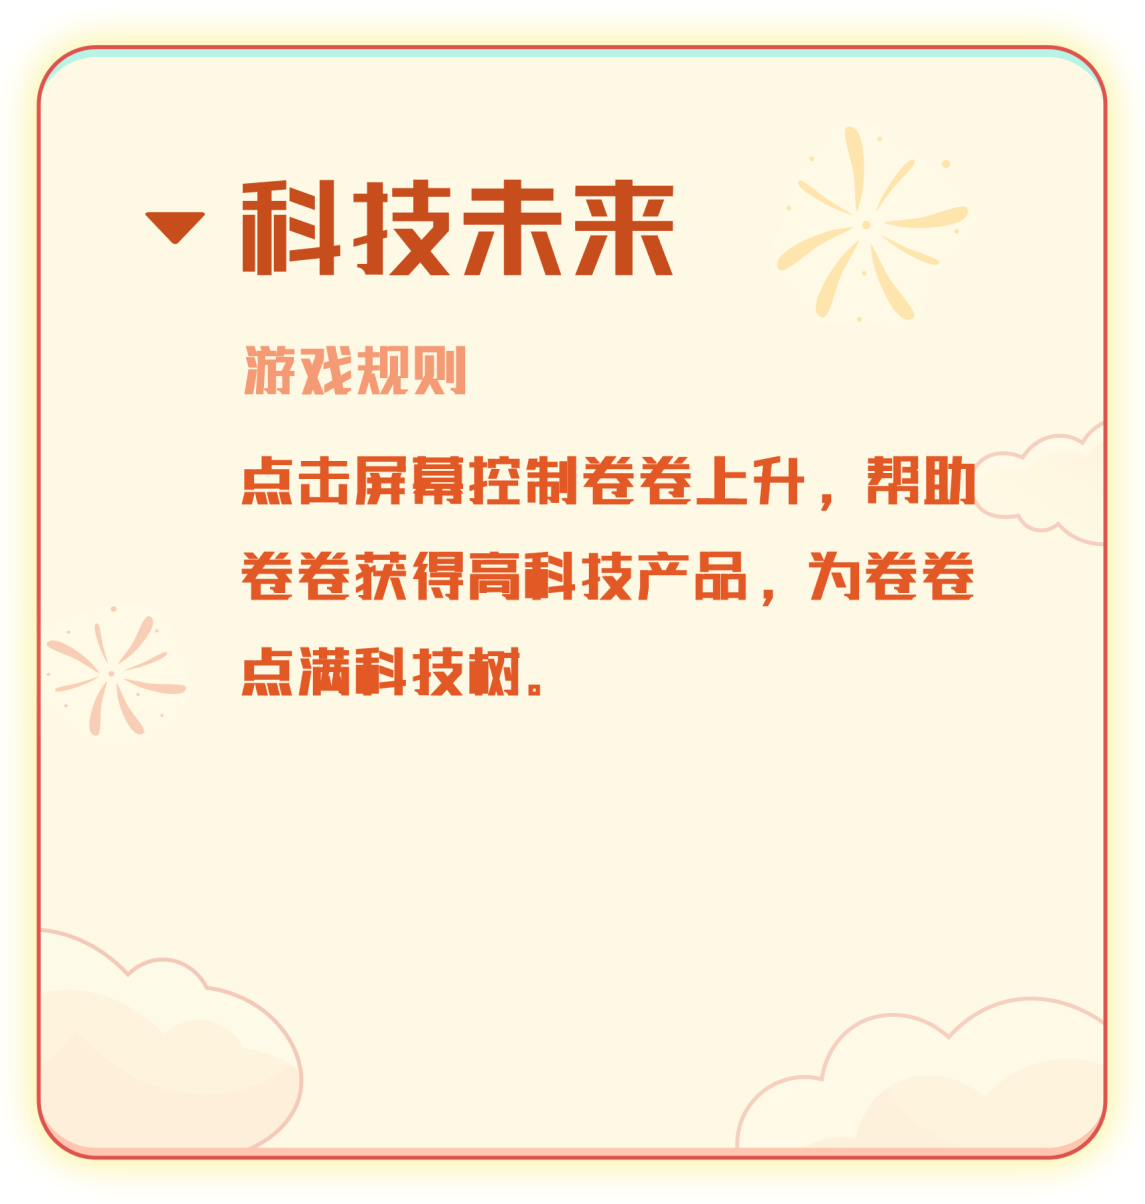
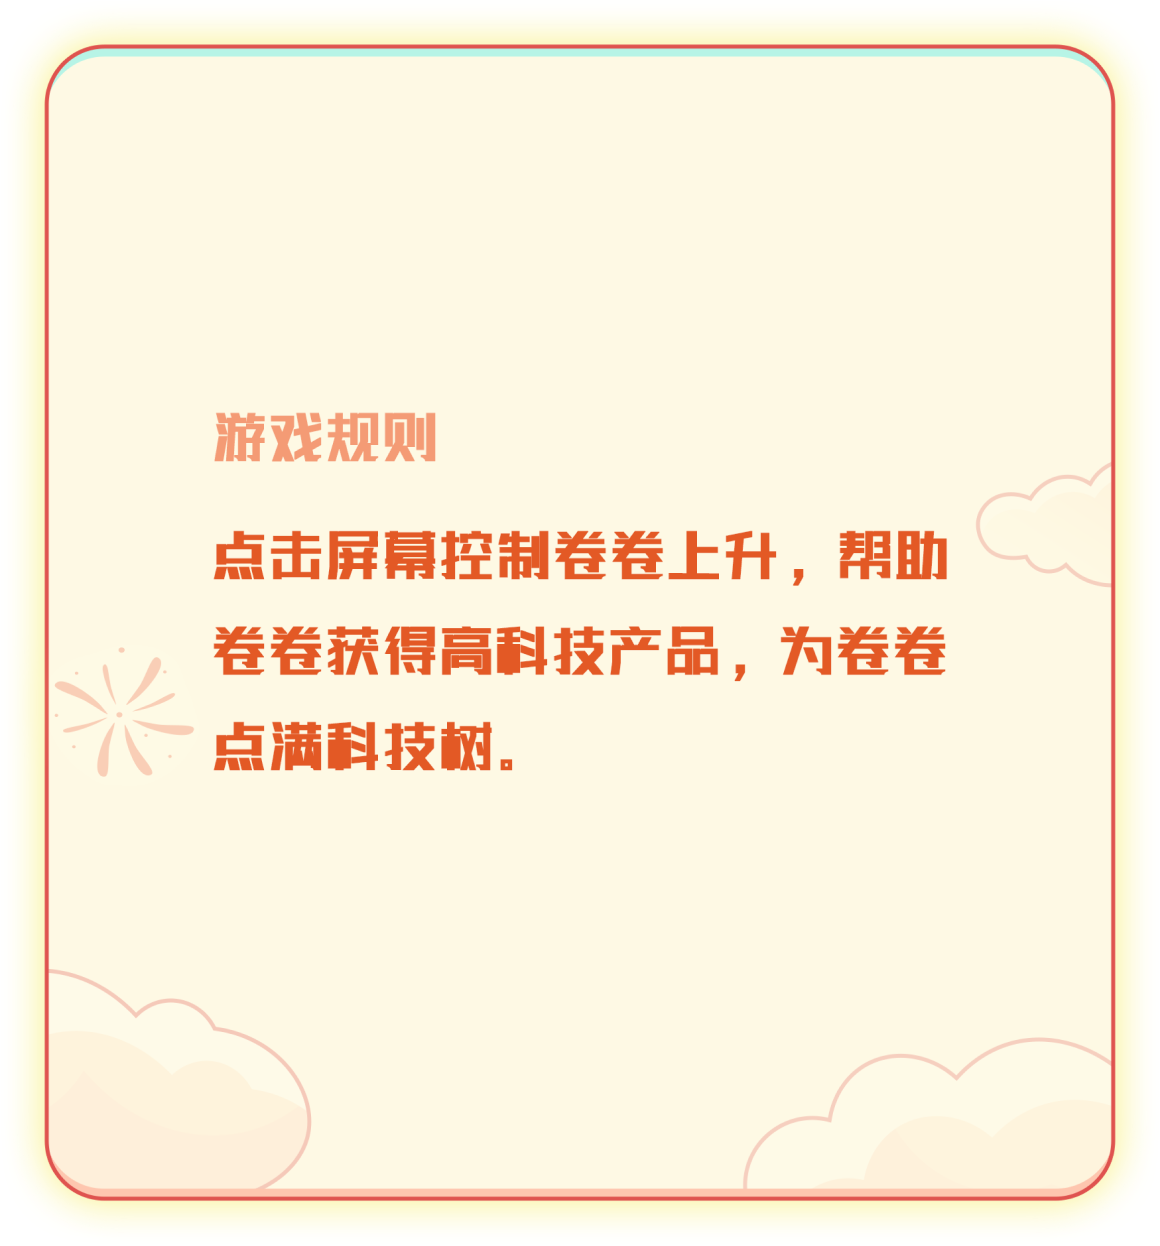
feat: complete selection page

diff --git a/src/assets/styles/selection.less b/src/assets/styles/selection.less
@@ -1,33 +1,100 @@
 .selection {
     background-image: url("../images/selection/background.png");
     background-size: 100% 100%;
-    min-height: 100vh;
+    height: 100vh;
     width: 100%;
+    overflow-y: auto;
+
     .sentakushis {
 
         padding-top: 32.8vw;
+        padding-bottom: 32.8vw;
+
         .sentakushi {
-            width: 77.184vw;
-            height: 24.8vw;
-            background-size: 100% 100%;
+            // height: 24.8vw;
+            // background-size: 100% 100%;
             margin: 0 auto;
+            overflow: hidden;
+
+            width: 77.333vw;
+            height: 22vw;
+            border-radius: 8vw;
+            background-size: 100% auto;
+            transition: all ease .2s;
+
+            .preview {
+                width: 77.333vw;
+            }
+
+            .start-game {
+                width: 44vw;
+                margin-left: 16.5vw;
+            }
+
+            &.harvest {
+                background-image: url("../images/selection/harvest-expand.png");
+                .start-game {
+                    margin-top: 44.867vw;
+                }
+            }
+
+            &.interstellarTrip {
+                background-image: url("../images/selection/interstellar-trip-expand.png");
+                .start-game {
+                    margin-top: 32.599vw;
+                }
+            }
+
+            &.antiEpidemic {
+                background-image: url("../images/selection/anti-epidemic-expand.png");
+                .start-game {
+                    margin-top: 32.866vw;
+                }
+            }
+
+            &.techFuture {
+                background-image: url("../images/selection/tech-future-expand.png");
+                .start-game {
+                    margin-top: 32.333vw;
+                }
+            }
+
+
+            &.expanded {
+
+                &.harvest {
+                    height: 95vw;
+                }
+
+                &.interstellarTrip {
+                    height: 82vw;
+                }
+
+                &.antiEpidemic {
+                    height: 82vw;
+                }
+
+                &.techFuture {
+                    height: 82vw;
+                }
+            }
         }
 
-        .harvest {
-            background-image: url("../images/selection/harvest.png");
-        }
+        // .harvest {
+        //     background-image: url("../images/selection/harvest.png");
+        // }
 
-        .interstellarTrip {
-            background-image: url("../images/selection/interstellar-trip.png");
-        }
+        // .interstellarTrip {
+        //     background-image: url("../images/selection/interstellar-trip.png");
+        // }
 
-        .antiEpidemic {
-            background-image: url("../images/selection/anti-epidemic.png");
-        }
+        // .antiEpidemic {
+        //     background-image: url("../images/selection/anti-epidemic.png");
+        // }
 
-        .techFuture {
-            background-image: url("../images/selection/tech-future.png");
-        }
+        // .techFuture {
+        //     background-image: url("../images/selection/tech-future.png");
+        // }
     }
-    
+
 }

diff --git a/src/views/games/TechFuture/index.tsx b/src/views/games/TechFuture/index.tsx
@@ -8,8 +8,8 @@ import { items } from "./items";
 import FailureWindow from "./views/FailureWindow";
 import SuccessWindow from "./views/SuccessWindow";
 
-const height = document.documentElement.clientHeight;
-const width = document.documentElement.clientWidth;
+const height = document.documentElement.clientHeight ;
+const width = document.documentElement.clientWidth ;
 
 const FPS = 60;
 const gravity = 600;
@@ -23,7 +23,7 @@ const player: Player = {
         y: 100,
     },
     velocity: {
-        x: 50,
+        x: 300,
         y: 0,
     },
     size: {
@@ -81,6 +81,8 @@ function graphicalUpdate(context: CanvasRenderingContext2D) {
         if (!item.visible) return;
         drawSprite(context, item);
     })
+
+    // console.log(player, items)
 }
 
 function physicalUpdate() {
@@ -133,11 +135,11 @@ function physicalUpdate() {
 function isColliding(reward: Reward): boolean {
     if (
         Math.abs(
-            (player.coordinate.x + player.collision.left + player.size.x / 2) -
+            (player.coordinate.x + player.collision.left + player.collision.width / 2) -
             (reward.coordinate.x + reward.size.x / 2)
         ) < (player.collision.width + reward.size.x) / 2 &&
         Math.abs(
-            (player.coordinate.y + player.collision.top + player.size.y / 2) -
+            (player.coordinate.y + player.collision.top + player.collision.height / 2) -
             (reward.coordinate.y + reward.size.y / 2)
         ) < (player.collision.height + reward.size.y) / 2
     ) {
@@ -154,7 +156,7 @@ function liftPlayer() {
 
 const TechFuture = (): ReactElement => {
     const canvasRef = useRef<HTMLCanvasElement>(null);
-    const [gameState, setGameState] = useState<"SUCCESS" | "FAILURE" | "PLAYING">("PLAYING");
+    const [gameState, setGameState] = useState<"TO_SUCCESS" |"SUCCESS" | "FAILURE" | "PLAYING">("PLAYING");
     let context: CanvasRenderingContext2D;
     useEffect(() => {
         if (!canvasRef.current) return;
@@ -166,13 +168,19 @@ const TechFuture = (): ReactElement => {
 
         const frameTimer = setInterval(() => {
             if (!context) return;
-            graphicalUpdate(context);
             physicalUpdate();
+            graphicalUpdate(context);
     
-            if (items.every(item => !item.visible)) {
-                setGameState("SUCCESS");
-                clearInterval(frameTimer)
+            if (gameState === "PLAYING") {
+                if (items.every(item => !item.visible)) {
+                    setGameState("TO_SUCCESS");
+                    setTimeout(() => {
+                        setGameState("SUCCESS");
+                        clearInterval(frameTimer)
+                    }, 1000)
+                }
             }
+            
             for (let i = 0; i < items.length; i++) {
                 const item = items[i];
                 if (item.visible && item.coordinate.x + item.size.x < player.coordinate.x) {

diff --git a/src/views/Selection/sentakushi.tsx b/src/views/Selection/sentakushi.tsx
@@ -1,9 +1,18 @@
-import { ReactElement } from "react";
+import { ReactElement, useState } from "react";
+import {
+    BrowserRouter as Router,
+    Switch,
+    Route,
+    Link,
+    useRouteMatch,
+    useParams
+} from "react-router-dom";
+
+import * as images from "../../assets/images/selection"
 
 type Props = {
     type: "antiEpidemic" | "techFuture" | "interstellarTrip" | "harvest";
     done: boolean;
-    expand: boolean;
 }
 
 /**
@@ -11,14 +20,32 @@ type Props = {
  * 
  * 選択肢「せんたくし」「SENTAKUSHI」
 **/
-const Sentakushi = ({type, done, expand}: Props): ReactElement => (
-    <div className={`sentakushi ${type}`}>
 
-    </div>
-)
+function mapImageName(name: string): string {
+    switch (name) {
+        case "antiEpidemic": return "anti-epidemic";
+        case "techFuture": return "tech-future";
+        case "interstellarTrip": return "interstellar-trip";
+        default: return name;
+    }
+}
 
-Sentakushi.defaultProps = {
-    expand: false
+const Sentakushi = ({ type, done }: Props): ReactElement => {
+    const [expand, setExpand] = useState(false);
+    return (
+        <div
+            className={`sentakushi ${type} ${expand ? "expanded" : ""}`}
+        >
+            <img
+                className="preview"
+                src={images[`${type}`]}
+                onClick={() => setExpand(!expand)}
+            ></img>
+            <Link to={mapImageName(type)}>
+                <img src={images.startGame} className="start-game" />
+            </Link>
+        </div>
+    )
 }
 
 export default Sentakushi;

diff --git a/src/assets/images/selection/index.ts b/src/assets/images/selection/index.ts
@@ -1,18 +1,19 @@
 import antiEpidemic from './anti-epidemic.png';
-import techFuture from './anti-epidemic.png';
-import interstellarTrip from './anti-epidemic.png';
-import harvest from './anti-epidemic.png';
+import techFuture from './tech-future.png';
+import interstellarTrip from './interstellar-trip.png';
+import harvest from './harvest.png';
 
 import antiEpidemicDone from './anti-epidemic-done.png';
-import techFutureDone from './anti-epidemic-done.png';
-import interstellarTripDone from './anti-epidemic-done.png';
-import harvestDone from './anti-epidemic-done.png';
+import techFutureDone from './tech-future-done.png';
+import interstellarTripDone from './interstellar-trip-done.png';
+import harvestDone from './harvest-done.png';
 
 import antiEpidemicExpand from './anti-epidemic-expand.png';
-import techFutureExpand from './anti-epidemic-expand.png';
-import interstellarTripExpand from './anti-epidemic-expand.png';
-import harvestExpand from './anti-epidemic-expand.png';
+import techFutureExpand from './tech-future-expand.png';
+import interstellarTripExpand from './interstellar-trip-expand.png';
+import harvestExpand from './harvest-expand.png';
 
+import startGame from './start-game.png';
 import background from './background.png';
 
 export {
@@ -32,5 +33,6 @@ export {
     harvestDone,
     harvestExpand,
 
-    background
+    background,
+    startGame
 }

diff --git a/src/views/games/TechFuture/views/FailureWindow.tsx b/src/views/games/TechFuture/views/FailureWindow.tsx
@@ -7,7 +7,7 @@ const FailWindow = (): ReactElement => {
     return (
         <div className="fail-window">
             <div className="background">
-                <img className="play-again" src={playAgain.src} />
+                <img className="play-again" src={playAgain.src} onClick={() => window.location.reload()}/>
                 <img className="select-game" src={selectGame.src} />
             </div>
         </div>
